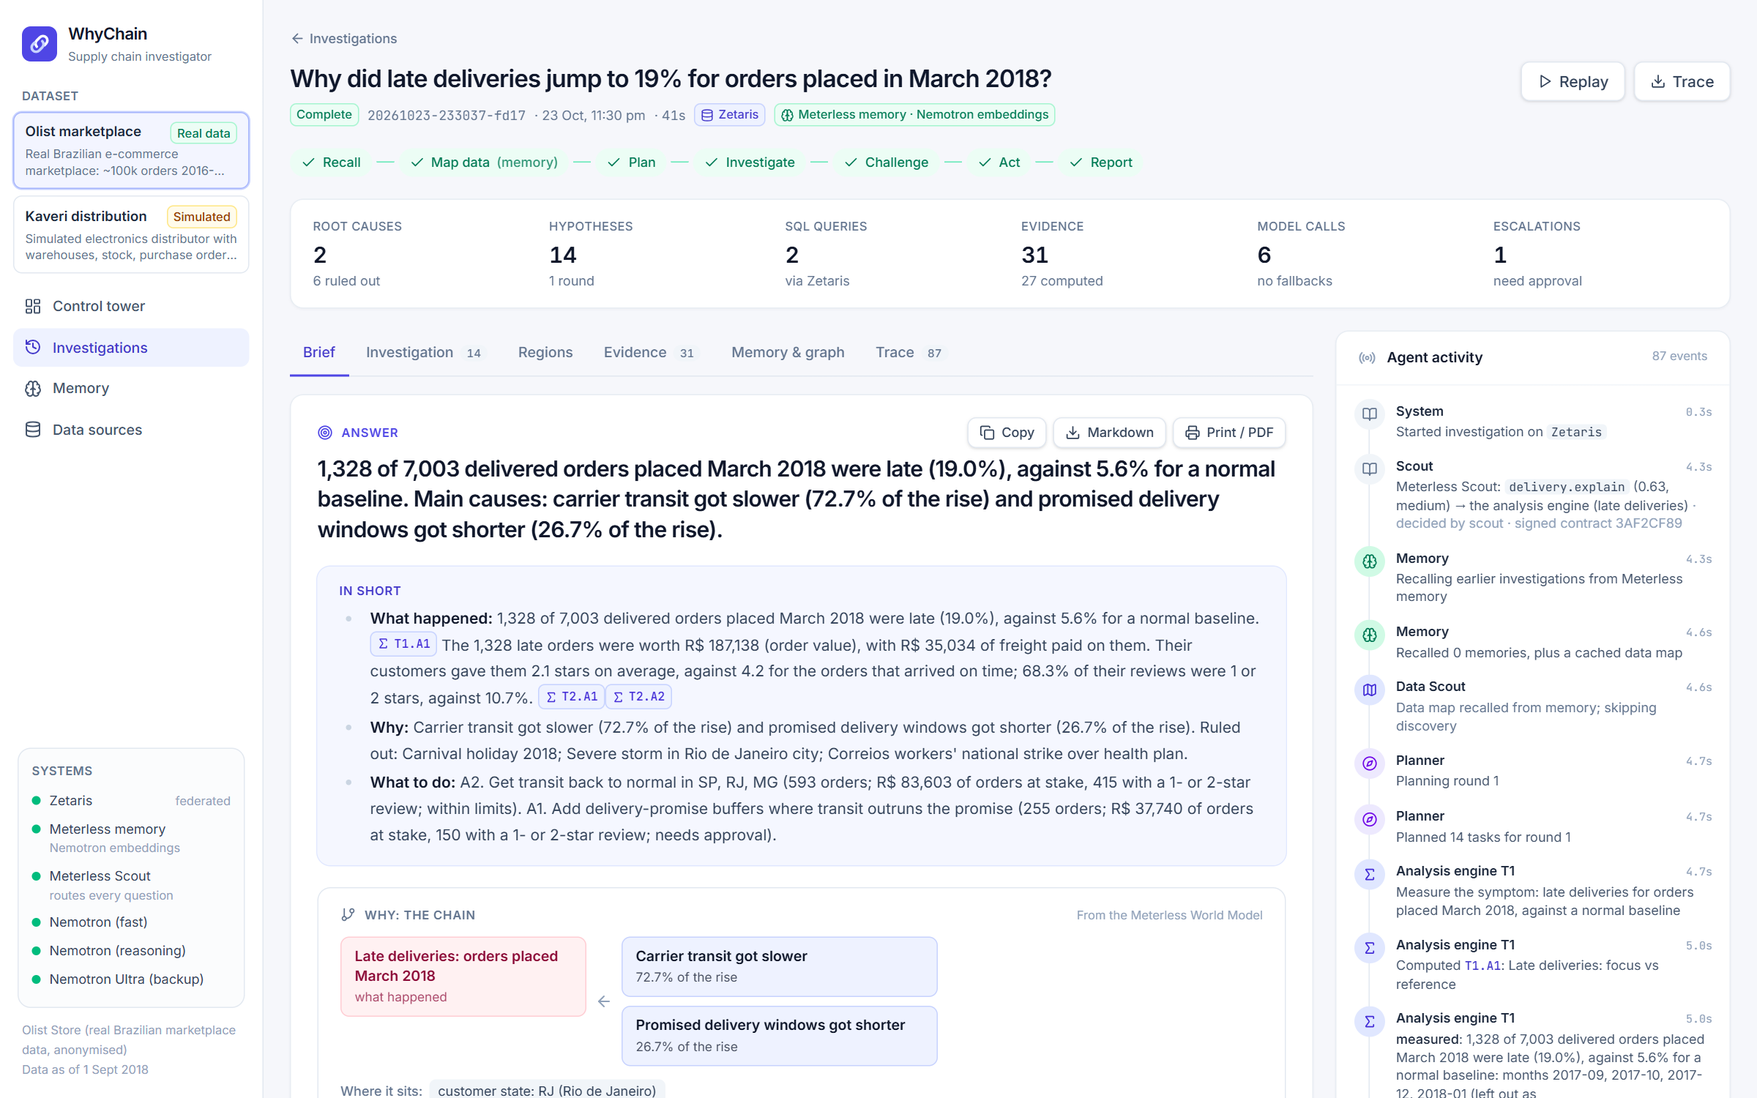
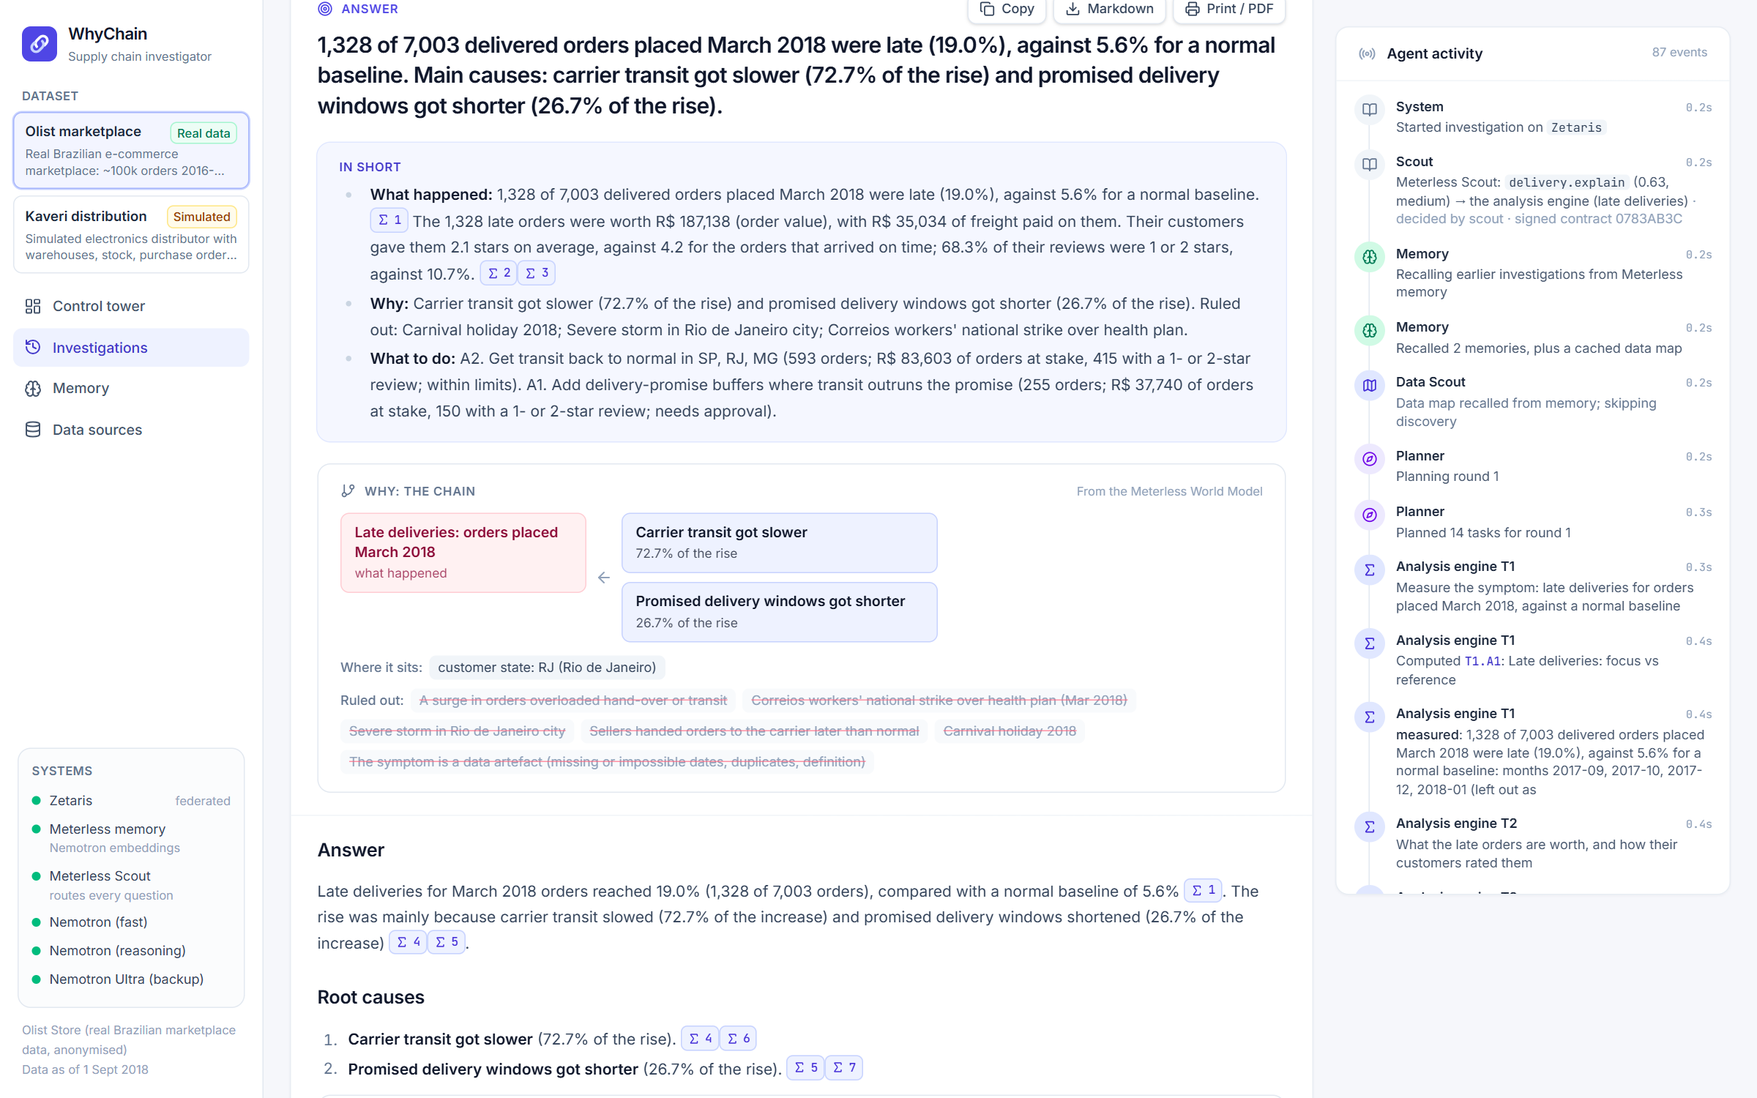
Brief for a manager: numbered sources instead of T4.A1, detail folded, no-Docker quick start
- Citations show as 1, 2, 3 in reading order; hover says what each source is, click opens the table and its SQL
- Where it happened, Ruled out and the written record fold under the root causes; the actions table is
  left to the action cards, which show the same figures
- Order counts on Olist action cards grouped like the brief text
- README: a quick path without Docker or Zetaris; Ollama as an optional independent fallback (off in every result)

diff --git a/frontend/src/components/Brief.tsx b/frontend/src/components/Brief.tsx
@@ -12,7 +12,23 @@ import { EvidenceChip } from "./Evidence";
 import { WhyChain } from "./WhyChain";
 import { Badge, Button, Card, CardHeader } from "./ui";
 
-export function Markdown({ text, onOpen, known }: { text: string; onOpen: (id: string) => void; known: Record<string, unknown> }) {
+/** Sources numbered in the order a reader meets them (1, 2, 3...), with what each one is, for chips a manager can read. */
+export type Sources = Record<string, { n: number; title: string }>;
+
+export function numberSources(texts: string[], evidence: Record<string, unknown>): Sources {
+  const out: Sources = {};
+  for (const t of texts)
+    for (const m of t.matchAll(CITATION)) {
+      const id = m[1];
+      if (!out[id]) {
+        const ev = evidence[id] as { title?: string; purpose?: string } | undefined;
+        out[id] = { n: Object.keys(out).length + 1, title: ev?.title || ev?.purpose || "" };
+      }
+    }
+  return out;
+}
+
+export function Markdown({ text, onOpen, known, sources }: { text: string; onOpen: (id: string) => void; known: Record<string, unknown>; sources?: Sources }) {
   const linked = text.replace(CITATION, (_m, id: string) => `[${id}](#ev-${id})`);
   return (
     <div className="prose prose-slate prose-sm max-w-none prose-headings:font-semibold prose-headings:text-slate-900 prose-p:leading-relaxed prose-li:my-0.5 prose-table:my-3 prose-td:py-1.5 prose-th:py-1.5">
@@ -22,7 +38,8 @@ export function Markdown({ text, onOpen, known }: { text: string; onOpen: (id: s
           a: ({ href, children }) => {
             if (href?.startsWith("#ev-")) {
               const id = href.slice(4);
-              return <EvidenceChip id={id} onOpen={onOpen} missing={!known[id]} />;
+              const src = sources?.[id];
+              return <EvidenceChip id={id} onOpen={onOpen} missing={!known[id]} label={src ? String(src.n) : undefined} hint={src?.title} />;
             }
             return (
               <a href={href} target="_blank" rel="noreferrer">
@@ -38,7 +55,7 @@ export function Markdown({ text, onOpen, known }: { text: string; onOpen: (id: s
   );
 }
 
-export function ActionCard({ a, runId, onOpen, onDecided }: { a: Action; runId: string; onOpen: (id: string) => void; onDecided: () => void }) {
+export function ActionCard({ a, runId, onOpen, onDecided, sources }: { a: Action; runId: string; onOpen: (id: string) => void; onDecided: () => void; sources?: Sources }) {
   const [busy, setBusy] = useState(false);
   const [note, setNote] = useState("");
   const decide = async (d: "approved" | "rejected") => {
@@ -97,7 +114,7 @@ export function ActionCard({ a, runId, onOpen, onDecided }: { a: Action; runId: 
         <div>
           <div className="text-slate-500">Protects</div>
           <div className="font-medium tabular-nums text-slate-800">
-            {a.orders_protected ? `${a.orders_protected.toLocaleString("en-IN")} orders` : "—"}
+            {a.orders_protected ? `${a.orders_protected.toLocaleString(a.currency === "BRL" ? "en-US" : "en-IN")} orders` : "—"}
           </div>
         </div>
         <div>
@@ -107,7 +124,7 @@ export function ActionCard({ a, runId, onOpen, onDecided }: { a: Action; runId: 
           <div className="font-medium tabular-nums text-slate-800">
             {a.value_protected_inr ? money(Number(a.value_protected_inr), a.currency) : "—"}
           </div>
-          {!!a.low_reviews && <div className="text-[11px] text-slate-500">{a.low_reviews.toLocaleString("en-IN")} left a 1–2★ review</div>}
+          {!!a.low_reviews && <div className="text-[11px] text-slate-500">{a.low_reviews.toLocaleString(a.currency === "BRL" ? "en-US" : "en-IN")} left a 1–2★ review</div>}
         </div>
         <div>
           <div className="text-slate-500">Takes effect</div>
@@ -119,7 +136,7 @@ export function ActionCard({ a, runId, onOpen, onDecided }: { a: Action; runId: 
         <div>
           <div className="text-slate-500">Evidence</div>
           <div className="mt-0.5 flex flex-wrap gap-1">
-            {a.evidence.length ? a.evidence.map((id) => <EvidenceChip key={id} id={id} onOpen={onOpen} />) : <span className="text-slate-400">—</span>}
+            {a.evidence.length ? a.evidence.map((id) => <EvidenceChip key={id} id={id} onOpen={onOpen} label={sources?.[id] ? String(sources[id].n) : undefined} hint={sources?.[id]?.title} />) : <span className="text-slate-400">—</span>}
           </div>
         </div>
       </div>
@@ -212,11 +229,17 @@ function splitBrief(md: string) {
   let how = "";
   const next: { question: string; why: string }[] = [];
   const main: string[] = [];
+  const details: { title: string; body: string }[] = [];
   for (const part of ("\n" + md).split(/\n(?=## )/)) {
     const t = part.trim();
     if (!t) continue;
     if (t.startsWith("## Summary")) summary = t.replace(/^## Summary\s*/, "");
     else if (t.startsWith("## How we know")) how = t.replace(/^## How we know\s*/, "");
+    else if (t.startsWith("## Recommended actions")) continue; // shown as the action cards below
+    else if (/^## (Where it happened|Ruled out|What customers and the written record say)/.test(t)) {
+      const [head, ...rest] = t.split("\n");
+      details.push({ title: head.replace(/^##\s*/, ""), body: rest.join("\n").trim() });
+    }
     else if (t.startsWith("## Ask why next"))
       for (const line of t.split("\n").slice(1)) {
         const m = line.match(/^-\s*(.+?\?)\s*(?:\((.*)\))?\s*$/);
@@ -224,12 +247,15 @@ function splitBrief(md: string) {
       }
     else main.push(t);
   }
-  return { summary, how, next, main: main.join("\n\n") };
+  return { summary, how, next, details, main: main.join("\n\n") };
 }
 
 export function BriefView({ result, onOpen, onDecided }: { result: RunResult; onOpen: (id: string) => void; onDecided: () => void }) {
   const known = result.evidence ?? {};
   const parts = splitBrief(result.brief ?? "");
+  const cited = (ids: string[] | undefined) => (ids ?? []).map((id) => `[${id}]`).join(" ");
+  const sources = numberSources([parts.summary, parts.main, ...parts.details.map((d) => d.body), parts.how,
+    ...(result.actions ?? []).map((a) => cited(a.evidence)), ...(result.risks ?? []).map((r) => cited(r.evidence))], known);
   const navigate = useNavigate();
   const actions = result.actions ?? [];
   const currency = actions[0]?.currency ?? (result.dataset === "olist" ? "BRL" : "INR");
@@ -249,12 +275,20 @@ export function BriefView({ result, onOpen, onDecided }: { result: RunResult; on
         {parts.summary && (
           <div className="mx-6 mb-5 rounded-xl bg-brand-50/60 px-5 py-3.5 ring-1 ring-brand-100">
             <div className="mb-1 text-[11px] font-semibold uppercase tracking-wider text-brand-700">In short</div>
-            <Markdown text={parts.summary} onOpen={onOpen} known={known} />
+            <Markdown text={parts.summary} onOpen={onOpen} known={known} sources={sources} />
           </div>
         )}
         <WhyChain result={result} />
         <div className="border-t border-slate-100 px-6 py-5">
-          <Markdown text={parts.main} onOpen={onOpen} known={known} />
+          <Markdown text={parts.main} onOpen={onOpen} known={known} sources={sources} />
+          {parts.details.map((d) => (
+            <details key={d.title} className="mt-3 rounded-xl border border-slate-200 px-4 py-2.5 print:block">
+              <summary className="cursor-pointer select-none text-[14px] font-semibold text-slate-800">{d.title}</summary>
+              <div className="mt-2">
+                <Markdown text={d.body} onOpen={onOpen} known={known} sources={sources} />
+              </div>
+            </details>
+          ))}
           {parts.next.length > 0 && (
             <div className="mt-5 rounded-xl border border-brand-100 bg-brand-50/40 px-4 py-3 print:hidden">
               <div className="text-[11px] font-semibold uppercase tracking-wider text-brand-700">Ask why next</div>
@@ -281,7 +315,10 @@ export function BriefView({ result, onOpen, onDecided }: { result: RunResult; on
                 How we know <span className="font-normal text-slate-500">· the medians, percentiles and counterfactuals behind each line</span>
               </summary>
               <div className="mt-3">
-                <Markdown text={parts.how} onOpen={onOpen} known={known} />
+                <Markdown text={parts.how} onOpen={onOpen} known={known} sources={sources} />
+                <p className="mt-2 text-[12px] text-slate-500">
+                  Sources are numbered in reading order; hover one to see what it is, click it for the data and its query.
+                </p>
               </div>
             </details>
           )}
@@ -312,7 +349,7 @@ export function BriefView({ result, onOpen, onDecided }: { result: RunResult; on
           />
           <div className="space-y-3 p-4">
             {actions.map((a) => (
-              <ActionCard key={a.id} a={a} runId={result.run_id} onOpen={onOpen} onDecided={onDecided} />
+              <ActionCard key={a.id} a={a} runId={result.run_id} onOpen={onOpen} onDecided={onDecided} sources={sources} />
             ))}
           </div>
         </Card>
@@ -334,7 +371,7 @@ export function BriefView({ result, onOpen, onDecided }: { result: RunResult; on
                   {(r.evidence ?? []).length > 0 && (
                     <div className="mt-1 flex flex-wrap gap-1">
                       {(r.evidence ?? []).map((id) => (
-                        <EvidenceChip key={id} id={id} onOpen={onOpen} missing={!known[id]} />
+                        <EvidenceChip key={id} id={id} onOpen={onOpen} missing={!known[id]} label={sources[id] ? String(sources[id].n) : undefined} hint={sources[id]?.title} />
                       ))}
                     </div>
                   )}

diff --git a/frontend/src/components/Evidence.tsx b/frontend/src/components/Evidence.tsx
@@ -271,7 +271,7 @@ export function EvidenceBody({ ev }: { ev: Evidence }) {
   );
 }
 
-export function EvidenceChip({ id, onOpen, missing }: { id: string; onOpen: (id: string) => void; missing?: boolean }) {
+export function EvidenceChip({ id, onOpen, missing, label, hint }: { id: string; onOpen: (id: string) => void; missing?: boolean; label?: string; hint?: string }) {
   const isDoc = /\.D\d+$/.test(id);
   const isOpt = /\.P\d+$/.test(id);
   const isAna = /\.A\d+$/.test(id);
@@ -290,10 +290,10 @@ export function EvidenceChip({ id, onOpen, missing }: { id: string; onOpen: (id:
             : "bg-brand-50 text-brand-700 ring-brand-200 hover:bg-brand-100",
         missing && "cursor-default opacity-50",
       )}
-      title={missing ? "Evidence not available yet" : "Open evidence"}
+      title={missing ? "Evidence not available yet" : `${hint ? hint + " · " : ""}${id} · click to see the data and its query`}
     >
       {isOpt ? <Calculator className="h-3 w-3" /> : isAna ? <Sigma className="h-3 w-3" /> : isDoc ? <FileText className="h-3 w-3" /> : <Database className="h-3 w-3" />}
-      {id}
+      {label ?? id}
     </button>
   );
 }

diff --git a/README.md b/README.md
@@ -26,7 +26,7 @@ On real Olist data, orders placed in March 2018 were 19.0% late against a normal
 
 1. Start it: on Windows run `start.cmd` (Docker, Zetaris, Postgres, the Meterless bridge, the app, then a warm-up), or follow [Setup](#setup-clean-machine). Open http://localhost:8000.
 2. Olist (real data): click **March 2018 delay spike** under the search box. A **preliminary answer**, computed from the data, appears within seconds (after the warm-up); the full brief, with the written record and the short written answer, follows in two to three minutes.
-3. The brief opens with **In short** (what happened, why, what to do, in money) and the **why chain** drawn from the Meterless World Model. Click any citation chip to see the computed table and its SQL ("Data via Zetaris"); scroll to **Ruled out** for the strike.
+3. The brief opens with **In short** (what happened, why, what to do, in money) and the **why chain** drawn from the Meterless World Model; the detail (where it happened, what was ruled out, what customers wrote) is folded underneath. Sources are numbered 1, 2, 3 in reading order: hover one to see what it is, click it for the computed table and its SQL ("Data via Zetaris"). Open **Ruled out** for the strike.
 4. Switch to **Kaveri** and run **Pune orders at risk**: the proven-optimal stock transfer, then **Approve** it to get the transfer order and supplier email.
 5. Open **Memory** (findings with provenance, recall on Nemotron embeddings) and **Data sources** (federated by Zetaris).
 
@@ -157,7 +157,7 @@ This table separates what the code is built to do from what has actually run. Ru
 | **NVIDIA** | NIM serves **Nemotron 3.5 Super** (`nvidia/nemotron-3.5-super-vl-120b-a12b`). Reasoning ("thinking") is on for the Planner and Evaluator, and off, in JSON mode, for the other agents. **Nemotron 3 Ultra** (`nvidia/nemotron-3-ultra-550b-a55b`) is the backup model. **Nemotron 3 Embed** (`nvidia/nemotron-3-embed-1b`) embeds every memory and recall query for Meterless H-MEM. | **Used in every run** (cloud NIM). Local GPU use via Nightshift is not set up. |
 | **xAI Grok** | Optional first choice for the reasoning roles. | **Not configured;** no run has used it. |
 
-Every model call goes through one OpenAI-compatible client with role-based fallback. Providers that aren't configured are skipped, so **with today's configuration every chain runs entirely on NVIDIA's NIM endpoint**: Nemotron 3.5 Super, then a different model, Nemotron 3 Ultra. That covers one model being overloaded, which is the usual NIM failure, but not an outage of the NIM endpoint itself. Grok or Nightshift would make the chain independent.
+Every model call goes through one OpenAI-compatible client with role-based fallback. Providers that aren't configured are skipped, so **with today's configuration every chain runs entirely on NVIDIA's NIM endpoint**: Nemotron 3.5 Super, then a different model, Nemotron 3 Ultra. That covers one model being overloaded, which is the usual NIM failure, but not an outage of the NIM endpoint itself. Grok, Nightshift or a local Ollama model would make the chain independent: setting `OLLAMA_BASE_URL` and `OLLAMA_MODEL` in `.env` (see `.env.example`) adds a model on your own machine at the end of every chain. It was tried with `qwen3:8b` (the client turns its thinking off): about 30 s per answer, and it needs about 6 GB of free memory, which the development laptop did not have alongside Docker and Zetaris, so it is off in every result reported here.
 
 | Role | Used by | Order (configured today in bold) |
 |---|---|---|
@@ -196,6 +196,19 @@ The Official Rules (section 6) ask for a clear explanation of four things. In br
 **Needs:** Python 3.12 or 3.13 (not 3.14), Node 20+, git, and internet access (one dependency, `optiagent-core`, installs from GitHub, and the Olist data downloads from a public mirror). Docker for Postgres and Zetaris. An `NVIDIA_API_KEY` from build.nvidia.com for the models.
 
 **What works without what:** without Docker, the order systems are read from CSV copies; without Zetaris, every query goes to a local DuckDB copy with the same tables (the app says so); without an NVIDIA key, late-delivery and supply investigations still compute every finding and the brief's short answer is written by code (open-ended questions need a model); without the Meterless bridge, memory falls back to a local file. `python -m whychain.doctor` says which of these is in use.
+
+**Quickest path (no Docker, no Zetaris, about 10 minutes):** the same analysis on the local DuckDB copy of the same tables; the app shows "Local data (fallback)" instead of Zetaris.
+
+```bash
+py -3.12 -m venv .venv && .venv/Scripts/python -m pip install -e ".[dev]"   # macOS/Linux: python3.12 -m venv .venv && .venv/bin/pip install -e ".[dev]"
+cp .env.example .env                 # set NVIDIA_API_KEY, and WHYCHAIN_HARNESS=local
+.venv/Scripts/python -m datagen.olist --no-postgres     # real Olist data from CSV, about 6 minutes
+.venv/Scripts/python -m datagen.generate                # the simulated company (seconds)
+cd frontend && npm install && npm run build && cd ..
+.venv/Scripts/python -m whychain.api                    # http://localhost:8000
+```
+
+Without the Meterless bridge, memory falls back to a local file; start it (step 4 below) for Meterless memory, the World Model why chain and Scout routing.
 
 **On Windows**, once steps 1 to 5 have been done once, `start.cmd` starts everything (Docker, Zetaris, Postgres, the bridge, the app) and warms it up.
 

diff --git a/docs/demo-script.md b/docs/demo-script.md
@@ -30,7 +30,7 @@ on screen: "about two minutes later"). Never present a replay as live: a replay 
 | 1 | 0:00–0:15 | Control tower, Olist dataset | Hold on the chart with event markers | "When deliveries go late, an operations manager needs to know *why*: which stage broke, where, and whether the strike in the news is really to blame. The answer is spread across the order system, seller exports, reviews and news. WhyChain investigates it." |
 | 2 | 0:15–0:35 | Control tower | Point at the 19% March 2018 spike, then click **Investigate why** on that problem | "Real Brazilian e-commerce data, 99,000 orders. In March 2018, 19% of deliveries were late. And there was a Correios strike that month. Let's ask why." |
 | 3 | 0:35–1:00 | Investigation, **Board** tab, live | Show the activity line "Meterless Scout: delivery.explain → the analysis engine · signed contract" and the **Zetaris** badge; within about 15 s the **Preliminary answer** card appears at the top (what happened in money, why, what to do) | "**Meterless Scout** reads the question first: it routes it, checks it for injected instructions and signs a contract. Every query goes through **Zetaris**, which federates the order database, seller exports, reviews and news without copying them. The numbers come from code, so the answer is here in seconds: 1,328 late orders worth 187,000 reais, rated 2.1 stars against 4.2. **[Nemotron]** is still reading the news and will write the short answer." Cut: "two minutes later" (optional). |
-| 4 | 1:00–1:35 | **Brief** tab | Read **In short**; point at the **why chain** under it (from the Meterless World Model; the strike crossed out); click a citation like `[T4.A1]` to open its evidence (table + SQL + "Zetaris"); unfold **How we know** for one line | "19% late against a normal 5.6%. Carrier transit explains 72.7% of the rise, shorter promises 26.7%. The strike? Ruled out: lateness was already high before it began. Every number is checked against the cell it came from, and the medians and counterfactuals behind each line are one click away. **[Nemotron]** writes only the short answer, from those checked facts." |
+| 4 | 1:00–1:35 | **Brief** tab | Read **In short**; point at the **why chain** under it (from the Meterless World Model; the strike crossed out); hover a numbered source to show what it is, click it to open the evidence (table + SQL + "Zetaris"); unfold **How we know** for one line | "19% late against a normal 5.6%. Carrier transit explains 72.7% of the rise, shorter promises 26.7%. The strike? Ruled out: lateness was already high before it began. Every number is checked against the cell it came from, and the medians and counterfactuals behind each line are one click away. **[Nemotron]** writes only the short answer, from those checked facts." |
 | 4b | (optional, +20 s) | Brief, **Ask why next** | Click "Why were deliveries to Rio de Janeiro late for orders placed March 2018?"; the preliminary answer appears in seconds | "The rise sits in Rio, so the next why is one click: 34.5% late there against a normal 16.3%, worth 35,000 reais, rated 1.6 stars. Each answer opens the next why." |
 | 5 | 1:35–1:55 | Brief, **Recommended actions** | Point at **Value at stake** on the transit action; open the promise-buffer action, click **Approve** | "Each action is sized from the data and says what's at stake: getting transit back to normal in three states covers 593 of these orders, 83,600 reais of them; promise buffers per state, RJ plus 9 days, cover 255. Changing customer promises needs approval, so it waits for me." |
 | 6 | 1:55–2:35 | Switch dataset to **Kaveri**; run **Pune orders at risk** live | The preliminary answer appears in seconds with the transfer; then the brief: Voltix purchase orders held at the Chennai port strike; the transfer action with **Protects**, **Value at stake** and cost; **Approve**; cut ahead about two to three minutes; show the deliverables (a per-SKU transfer order and the supplier email draft; the Action Executor is an agent, so check them in the rehearsal run) | "A simulated distributor. Pune orders at risk: Voltix purchase orders are stuck behind a dock strike at Chennai. The fix is a stock transfer from Mumbai, proven optimal by Optiagent with a duality certificate: 133,590 rupees of transport to protect 62 orders worth 2.28 crore. Approve it, and the Action Executor prepares the transfer order and the supplier email." |
@@ -61,7 +61,7 @@ GROUP BY s.seller_state ORDER BY orders DESC LIMIT 5
   **Preliminary answer** card appeared at 8 s; the full brief was ready at 38 s (NVIDIA was fast; on a slow evening
   it took up to 3 minutes, so keep the cut).
 - Shot 4: **In short**, then the **why chain** (two causes with their shares, RJ, six ruled-out tests struck
-  through); citation chips open the computed table, "Data via Zetaris" and the SQL (unfold it).
+  through); numbered sources open the computed table, "Data via Zetaris" and the SQL (unfold it).
 - Shot 4b: "Ask why next" → the Rio de Janeiro run: its brief was ready at 29 s (34.5% against 16.3%).
 - Shot 6: Pune's preliminary answer came at 24 s (it includes the proven-optimal transfer); after **Approve** the
   Action Executor's deliverables were ready within seconds this time (it took 2.5 minutes on 22 Oct).
